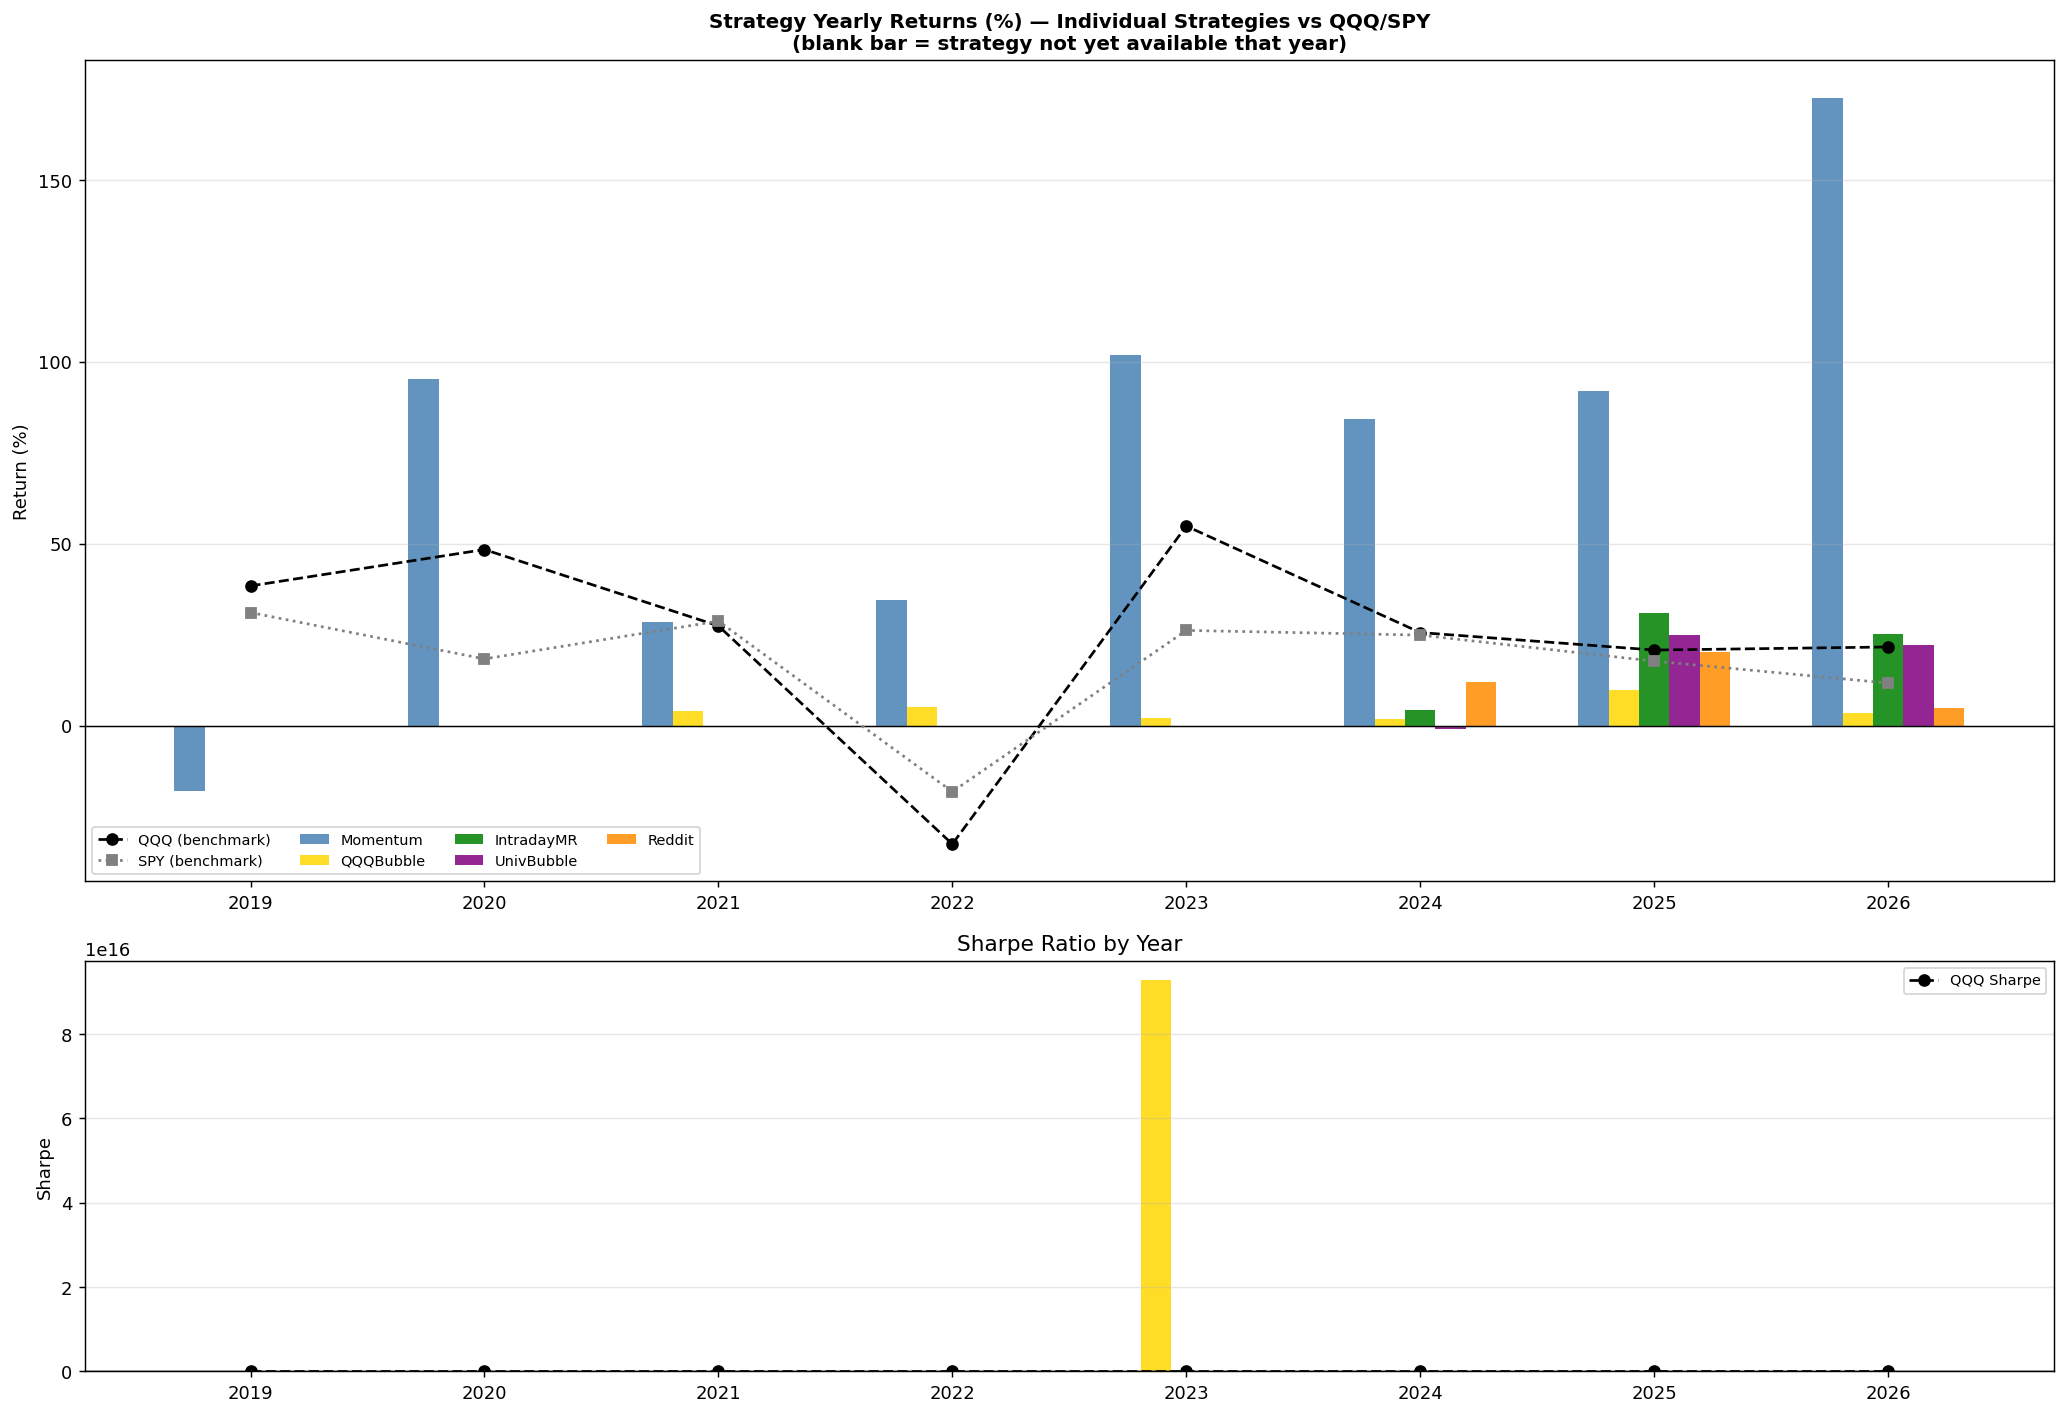
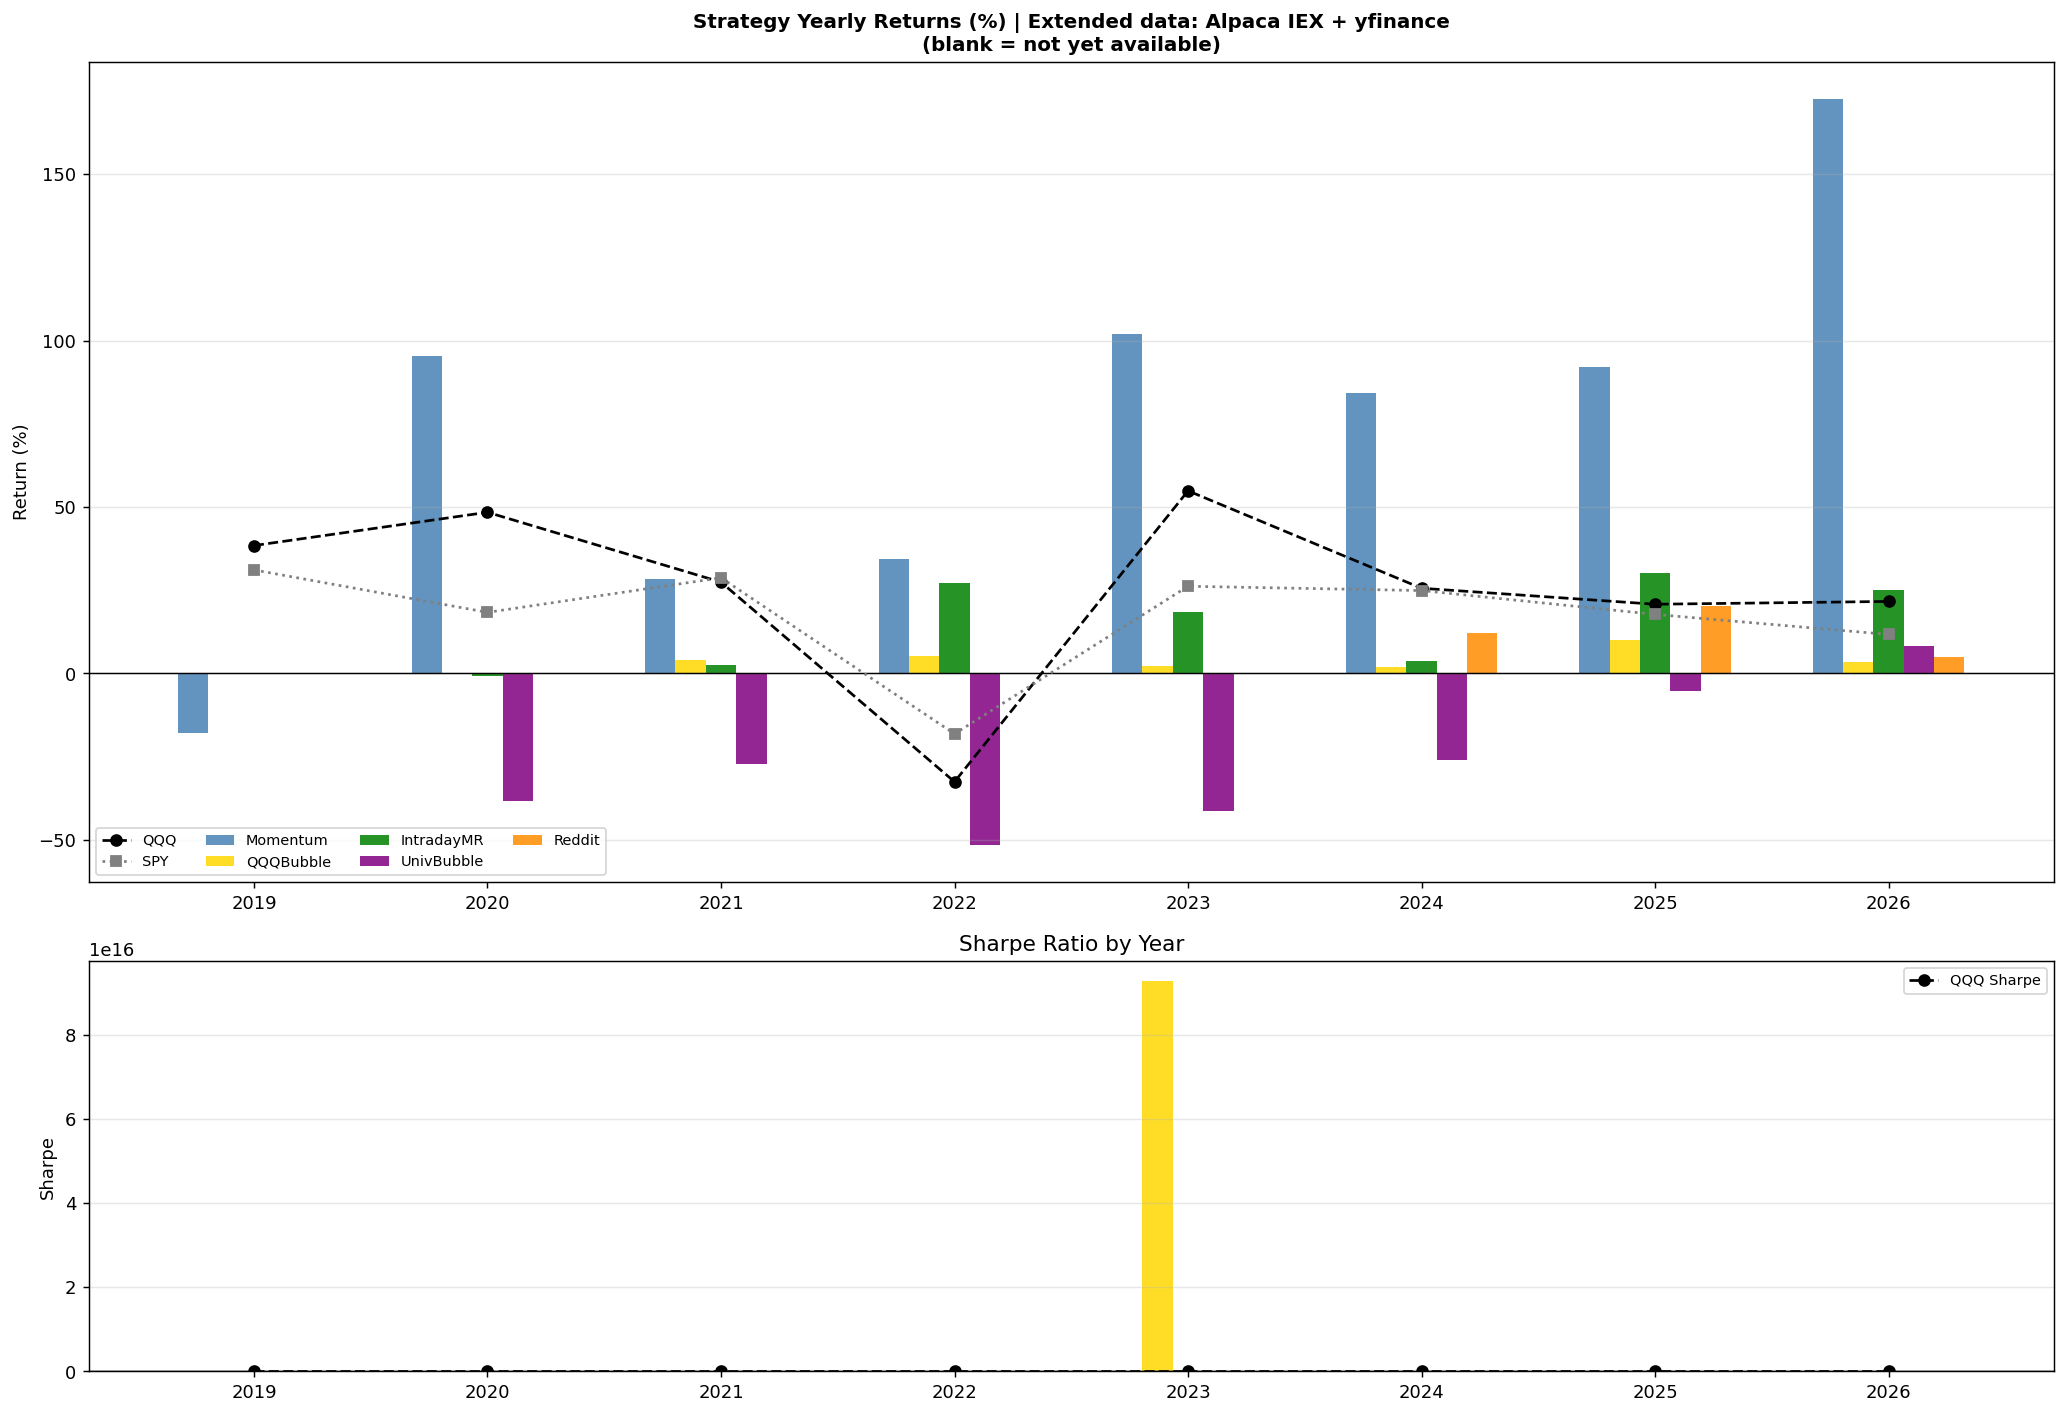
Extended hourly data fix + per-strategy yearly breakdown 2019-2026
data/intraday_loader.py:
- Separate merged cache (merged_hourly_open/close.parquet)
- Keeps all 516 tickers: extends 414 with Alpaca history, yfinance-only for 102
- load_hourly_bars() checks merged cache first (no cache overwrite)

Key findings from extended data (2019-2026):
  Momentum:   positive every year except 2019 half-year; +34% in 2022 bear
  IntradayMR: starts 2019, +27% in 2022, +18% in 2023, consistent positive
  UnivBubble: NEGATIVE every year 2020-2025 on full history (-91% total)
              Only profitable in 2026 partial year -> severely overfit
  QQQBubble:  consistent small positive 2021-2026, Sharpe 1.6, DD -2%
  Reddit:     only 2024-2026 data available

diff --git a/data/intraday_loader.py b/data/intraday_loader.py
@@ -19,9 +19,11 @@ import yfinance as yf
 CACHE_DIR = Path(__file__).parent / "cache"
 CACHE_DIR.mkdir(exist_ok=True)
 
-_DAILY_CACHE  = CACHE_DIR / "daily_close.parquet"
-_HOURLY_O_CACHE = CACHE_DIR / "hourly_open.parquet"
+_DAILY_CACHE    = CACHE_DIR / "daily_close.parquet"
+_HOURLY_O_CACHE = CACHE_DIR / "hourly_open.parquet"       # yfinance-only (730d)
 _HOURLY_C_CACHE = CACHE_DIR / "hourly_close.parquet"
+_MERGED_O_CACHE = CACHE_DIR / "merged_hourly_open.parquet"  # Alpaca+yfinance (full history)
+_MERGED_C_CACHE = CACHE_DIR / "merged_hourly_close.parquet"
 
 _CHUNK = 100          # tickers per yfinance batch
 _HRS_START   = (datetime.now() - timedelta(days=729)).strftime("%Y-%m-%d")
@@ -182,6 +184,16 @@ def load_hourly_bars(
         print(f"yfinance: {len(yf_ho)} bars × {len(yf_ho.columns)} tickers saved.")
 
     if not use_alpaca:
+        # Check if merged cache already exists and is fresh
+        if (_MERGED_O_CACHE.exists() and _MERGED_C_CACHE.exists()):
+            mo = pd.read_parquet(_MERGED_O_CACHE)
+            mc = pd.read_parquet(_MERGED_C_CACHE)
+            missing_m = [t for t in tickers if t not in mo.columns]
+            age_m = (datetime.now().date() - mo.index[-1].date()).days
+            if not missing_m and age_m < 7:
+                print(f"Merged cache: {len(mo.columns)} tickers "
+                      f"({mo.index[0].date()} → {mo.index[-1].date()}).")
+                return mo[tickers], mc[tickers]
         avail = [t for t in tickers if t in yf_ho.columns]
         return yf_ho[avail], yf_hc[avail]
 
@@ -197,22 +209,36 @@ def load_hourly_bars(
         avail = [t for t in tickers if t in yf_ho.columns]
         return yf_ho[avail], yf_hc[avail]
 
-    # ── Merge: Alpaca (old) + yfinance (recent), prefer yfinance on overlap ─
-    print("Merging Alpaca + yfinance hourly bars...")
-    common = list(set(al_ho.columns) & set(yf_ho.columns))
-    merged_o = pd.concat([al_ho[common], yf_ho[common]]).sort_index()
-    merged_c = pd.concat([al_hc[common], yf_hc[common]]).sort_index()
-    # Remove duplicates — keep yfinance (last) on overlap
-    merged_o = merged_o[~merged_o.index.duplicated(keep="last")]
-    merged_c = merged_c[~merged_c.index.duplicated(keep="last")]
-    merged_o = merged_o.ffill()
-    merged_c = merged_c.ffill()
+    # ── Merge: extend yfinance history with Alpaca — keep ALL yfinance tickers ─
+    print("Merging Alpaca + yfinance (keeping all tickers)...")
 
-    print(f"Merged: {len(merged_o)} bars × {len(common)} tickers  "
+    # Base: all yfinance tickers
+    merged_o = yf_ho.copy()
+    merged_c = yf_hc.copy()
+
+    # Prepend Alpaca bars from before yfinance window
+    yf_start  = yf_ho.index[0]
+    al_hist_o = al_ho[al_ho.index < yf_start]
+    al_hist_c = al_hc[al_hc.index < yf_start]
+
+    if not al_hist_o.empty:
+        common_t = [t for t in al_hist_o.columns if t in merged_o.columns]
+        ext_idx  = al_hist_o.index.union(merged_o.index)
+        merged_o = merged_o.reindex(ext_idx)
+        merged_c = merged_c.reindex(ext_idx)
+        merged_o.loc[al_hist_o.index, common_t] = al_hist_o[common_t].values
+        merged_c.loc[al_hist_o.index, common_t] = al_hist_c[common_t].values
+        merged_o = merged_o.sort_index().ffill()
+        merged_c = merged_c.sort_index().ffill()
+        print(f"Extended {len(common_t)} tickers with Alpaca history "
+              f"({al_hist_o.index[0].date()} → {al_hist_o.index[-1].date()})")
+
+    n_tickers = len(merged_o.columns)
+    print(f"Merged: {len(merged_o)} bars × {n_tickers} tickers  "
           f"({merged_o.index[0].date()} → {merged_o.index[-1].date()})")
 
-    # Save merged result as the main cache so future calls use extended data
-    merged_o.to_parquet(_HOURLY_O_CACHE)
-    merged_c.to_parquet(_HOURLY_C_CACHE)
-    print("Merged bars saved to main hourly cache.")
+    # Save to dedicated merged cache (never overwrites yfinance-only cache)
+    merged_o.to_parquet(_MERGED_O_CACHE)
+    merged_c.to_parquet(_MERGED_C_CACHE)
+    print(f"Saved to {_MERGED_O_CACHE.name}")
     return merged_o, merged_c